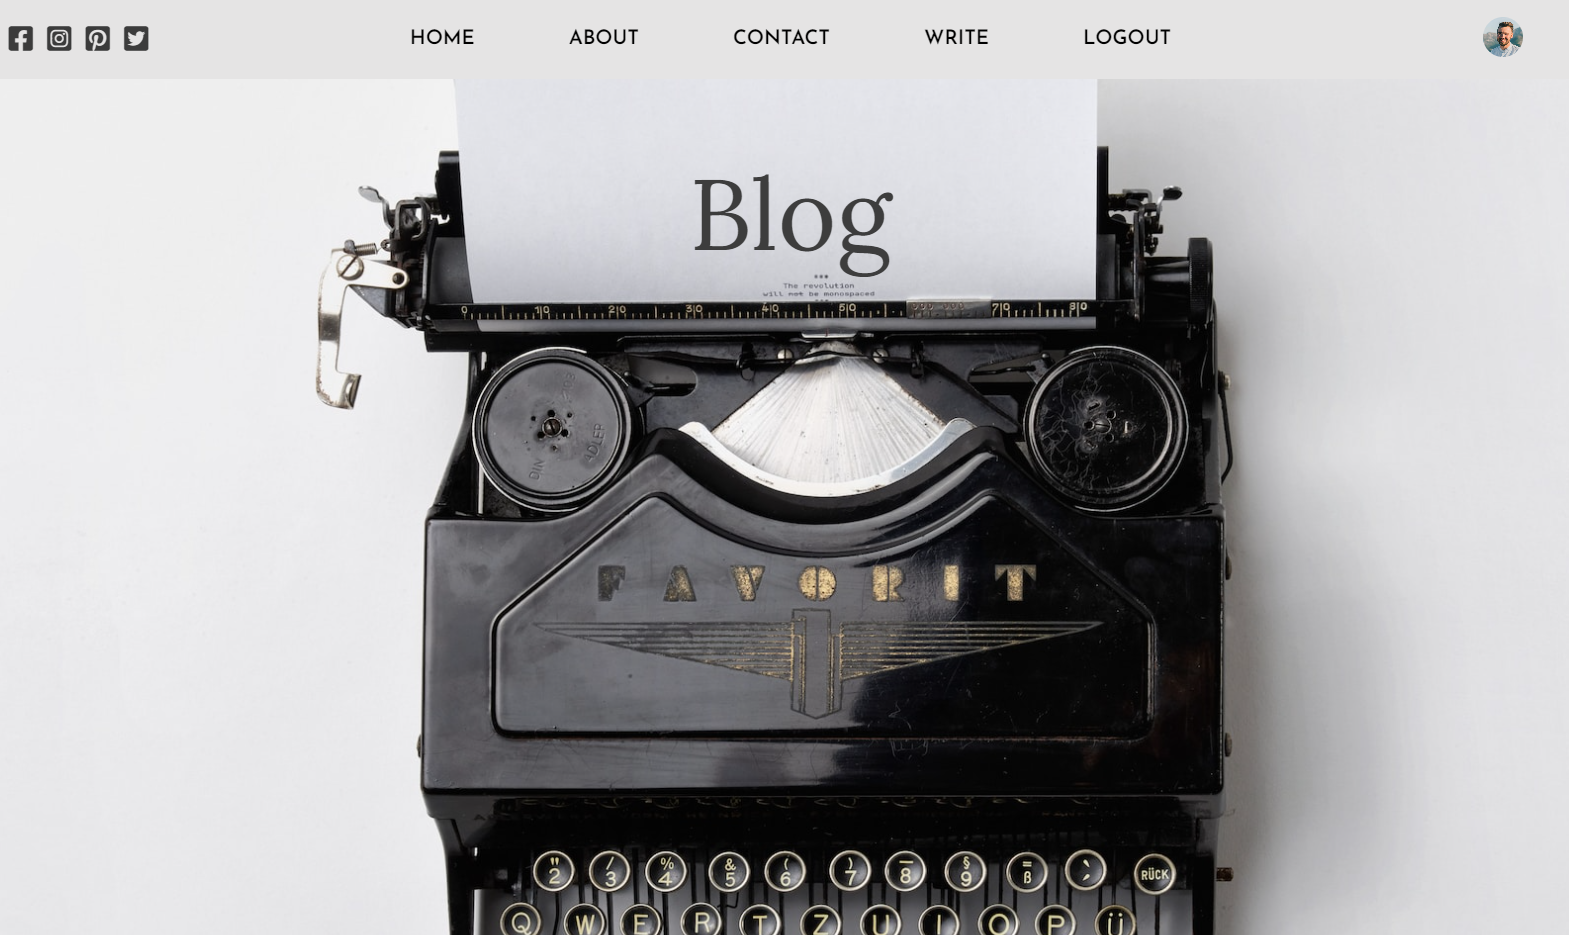
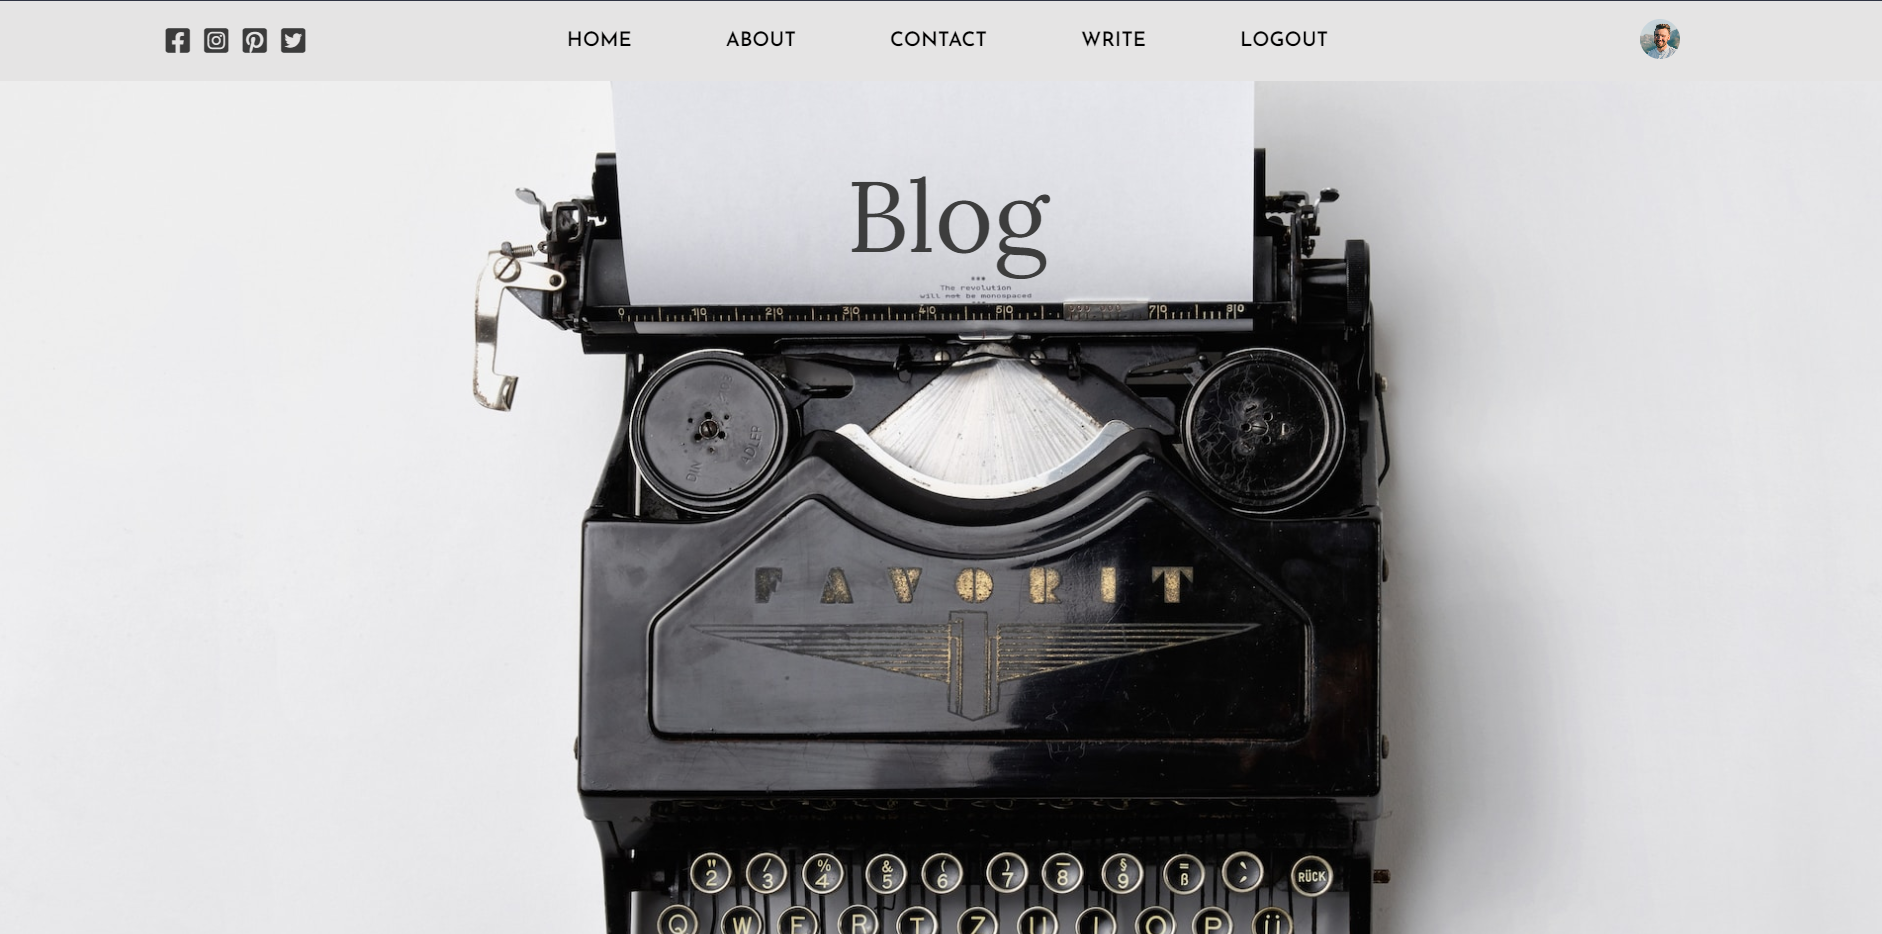
added arrow to about changed image hover effect and selection color

diff --git a/src/components/style.scss b/src/components/style.scss
@@ -79,6 +79,7 @@
     .abouttitle {
       width: fit-content;
       display: flex;
+      align-items: center;
       &::after {
         content: "";
         width: 0;
@@ -149,6 +150,7 @@
       display: flex;
       position: relative;
       gap: 2rem;
+
       b {
         font-size: 2rem;
       }
@@ -171,7 +173,7 @@
       border-radius: 50%;
       right: -2rem;
       bottom: 3rem;
-      box-shadow: 0 0 10px 10px rgba(0, 0, 0, 0.146);
+      box-shadow: 0 0 10px 10px rgba(0, 0, 0, 0.071);
 
       display: flex;
 
@@ -183,12 +185,14 @@
       width: 40rem;
       height: 28rem;
       object-fit: cover;
-      -webkit-filter: sepia(60%);
+      filter: sepia(70%) brightness(0.8) grayscale(0.5);
+      -webkit-filter: sepia(70%) brightness(0.8) grayscale(0.5);
       // filter: grayscale(0.9);
       -webkit-transition: 0.3s ease-in-out;
       transition: 0.6s ease-in-out;
 
       &:hover {
+        filter: sepia(0%);
         -webkit-filter: sepia(0%);
         cursor: pointer;
       }

diff --git a/src/components/Section3.js b/src/components/Section3.js
@@ -5,7 +5,7 @@ import Marquee from "react-fast-marquee";
 import { motion } from "framer-motion";
 import { cubicBezier } from "framer-motion";
 import { useNavigate } from "react-router-dom";
-
+import SouthIcon from "@mui/icons-material/South";
 const Section3 = () => {
   const navigate = useNavigate();
   return (
@@ -64,6 +64,13 @@ const Section3 = () => {
           >
             Welcome to this space. I'm thrilled to have you here.
           </motion.p>
+          <motion.div
+            // initial={{ y: -10, opacity: 1 }}
+            animate={{ y: -10, y: 10, opacity: 1 }}
+            transition={{ ease: "easeInOut", duration: 1.5, repeat: Infinity }}
+          >
+            <SouthIcon style={{ fontSize: "3rem", fontWeight: "100" }} />
+          </motion.div>
           <div
             className="abouttitle"
             onClick={() => {

diff --git a/src/components/style.css b/src/components/style.css
@@ -72,6 +72,7 @@
   width: -moz-fit-content;
   width: fit-content;
   display: flex;
+  align-items: center;
 }
 .aboutcomponent .aboutsection .abouttitle::after {
   content: "";
@@ -154,7 +155,7 @@
   border-radius: 50%;
   right: -2rem;
   bottom: 3rem;
-  box-shadow: 0 0 10px 10px rgba(0, 0, 0, 0.146);
+  box-shadow: 0 0 10px 10px rgba(0, 0, 0, 0.071);
   display: flex;
   align-items: center;
   justify-content: center;
@@ -164,10 +165,12 @@
   height: 28rem;
   -o-object-fit: cover;
      object-fit: cover;
-  -webkit-filter: sepia(60%);
+  filter: sepia(70%) brightness(0.8) grayscale(0.5);
+  -webkit-filter: sepia(70%) brightness(0.8) grayscale(0.5);
   transition: 0.6s ease-in-out;
 }
 .Workssection .singleproject img:hover {
+  filter: sepia(0%);
   -webkit-filter: sepia(0%);
   cursor: pointer;
 }

diff --git a/src/pages/singleproject/Blog.js b/src/pages/singleproject/Blog.js
@@ -1,11 +1,11 @@
 import React, { useRef } from "react";
 import { LocomotiveScrollProvider } from "react-locomotive-scroll";
 import img21 from "../../image/41.png";
-import img2 from "../../image/42.png";
+import img2 from "../../image/44.png";
 
 import img3 from "../../image/43.png";
-import img4 from "../../image/44.png";
-import img5 from "../../image/45.png";
+import img4 from "../../image/45.png";
+import img5 from "../../image/42.png";
 // import img6 from "../../image/14.png";
 // import img7 from "../../image/17.png";
 import "./ecommerce.css";

diff --git a/src/index.css b/src/index.css
@@ -5,6 +5,15 @@
   box-sizing: border-box;
   font-family: "Clash Display", sans-serif;
 }
+::-moz-selection {
+  /* Code for Firefox */
+
+  background: rgb(255, 158, 158);
+}
+
+::selection {
+  background: rgb(255, 158, 158);
+}
 html {
   background-color: rgb(255, 249, 242);
 }
